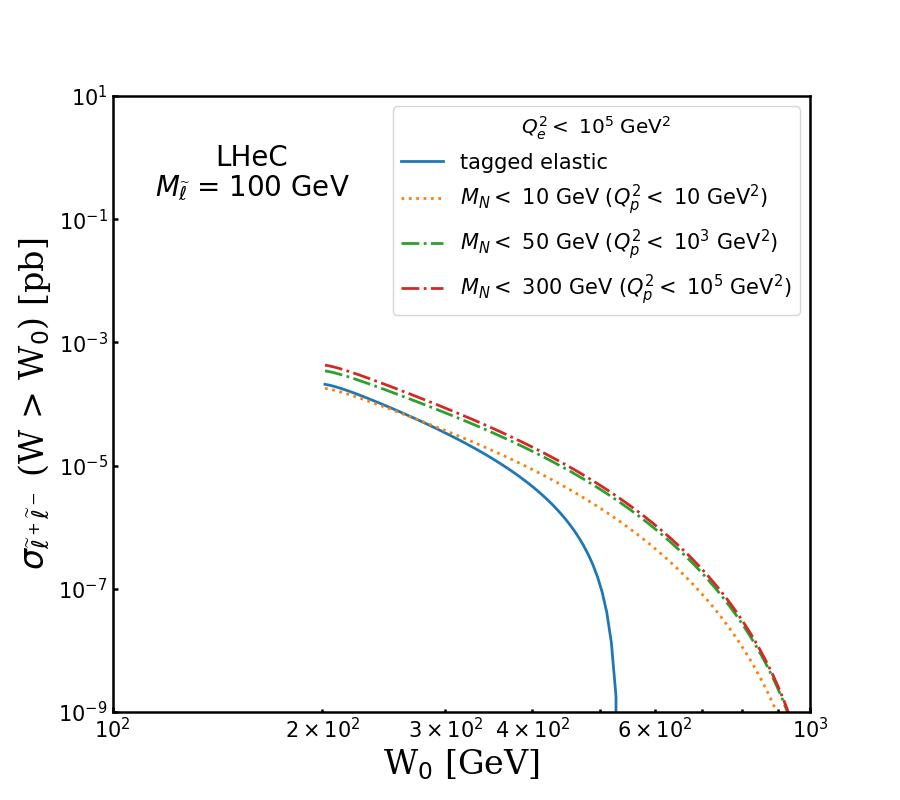
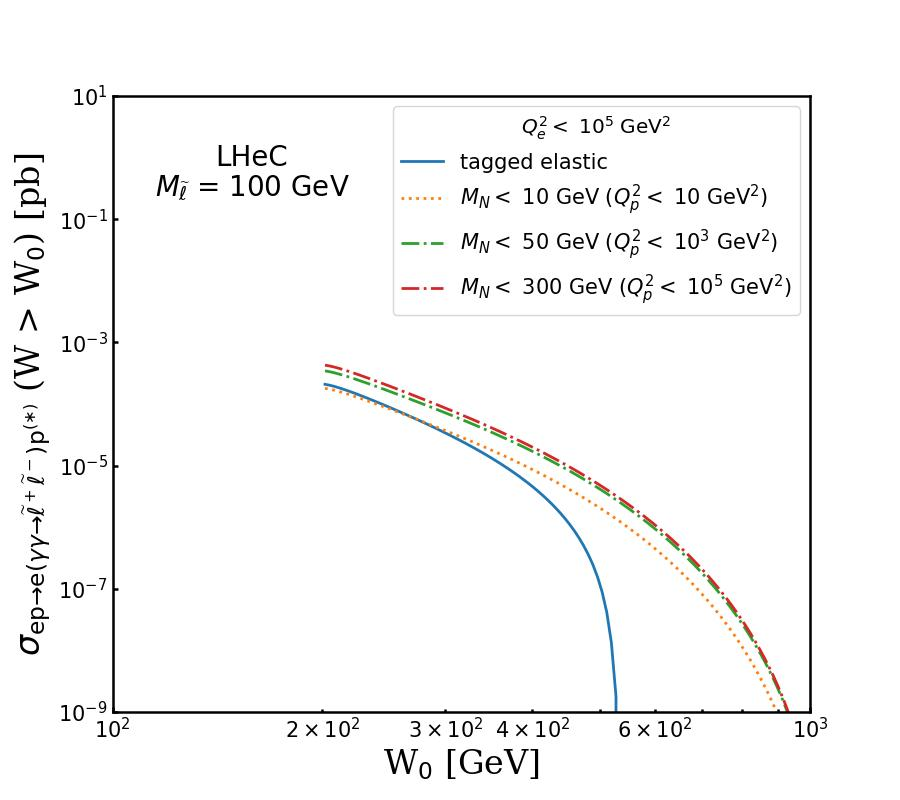
sleptons

Changed region(s): [[0.0, 0.1875, 0.0622, 0.8125]]

diff --git a/yy_Corrected_with_MN2_mMin2_q2min_25April_ALLM/trapint_sleptons_Hamzeh.py b/yy_Corrected_with_MN2_mMin2_q2min_25April_ALLM/trapint_sleptons_Hamzeh.py
@@ -223,7 +223,10 @@ font1 = {'family':'serif','color':'black','size':24}
 font2 = {'family':'serif','color':'black','size':24}
 
 plt.xlabel("W$_0$ [GeV]",  fontdict = font2)
-plt.ylabel("$\sigma_{\widetilde{\ell}^+\widetilde{\ell}^-}$ (W > W$_0$) [pb]", fontdict = font2)
+#plt.ylabel("$\sigma_{\widetilde{\ell}^+\widetilde{\ell}^-}$ (W > W$_0$) [pb]", fontdict = font2)
+
+plt.ylabel(r"$\sigma_{{\rm ep}\to {\rm e}(\gamma\gamma \to \widetilde{\ell}^+\widetilde{\ell}^-){\rm p}^{(\ast)}}$ (W > W$_0$) [pb]", fontdict = font2)
+
 
 
 
